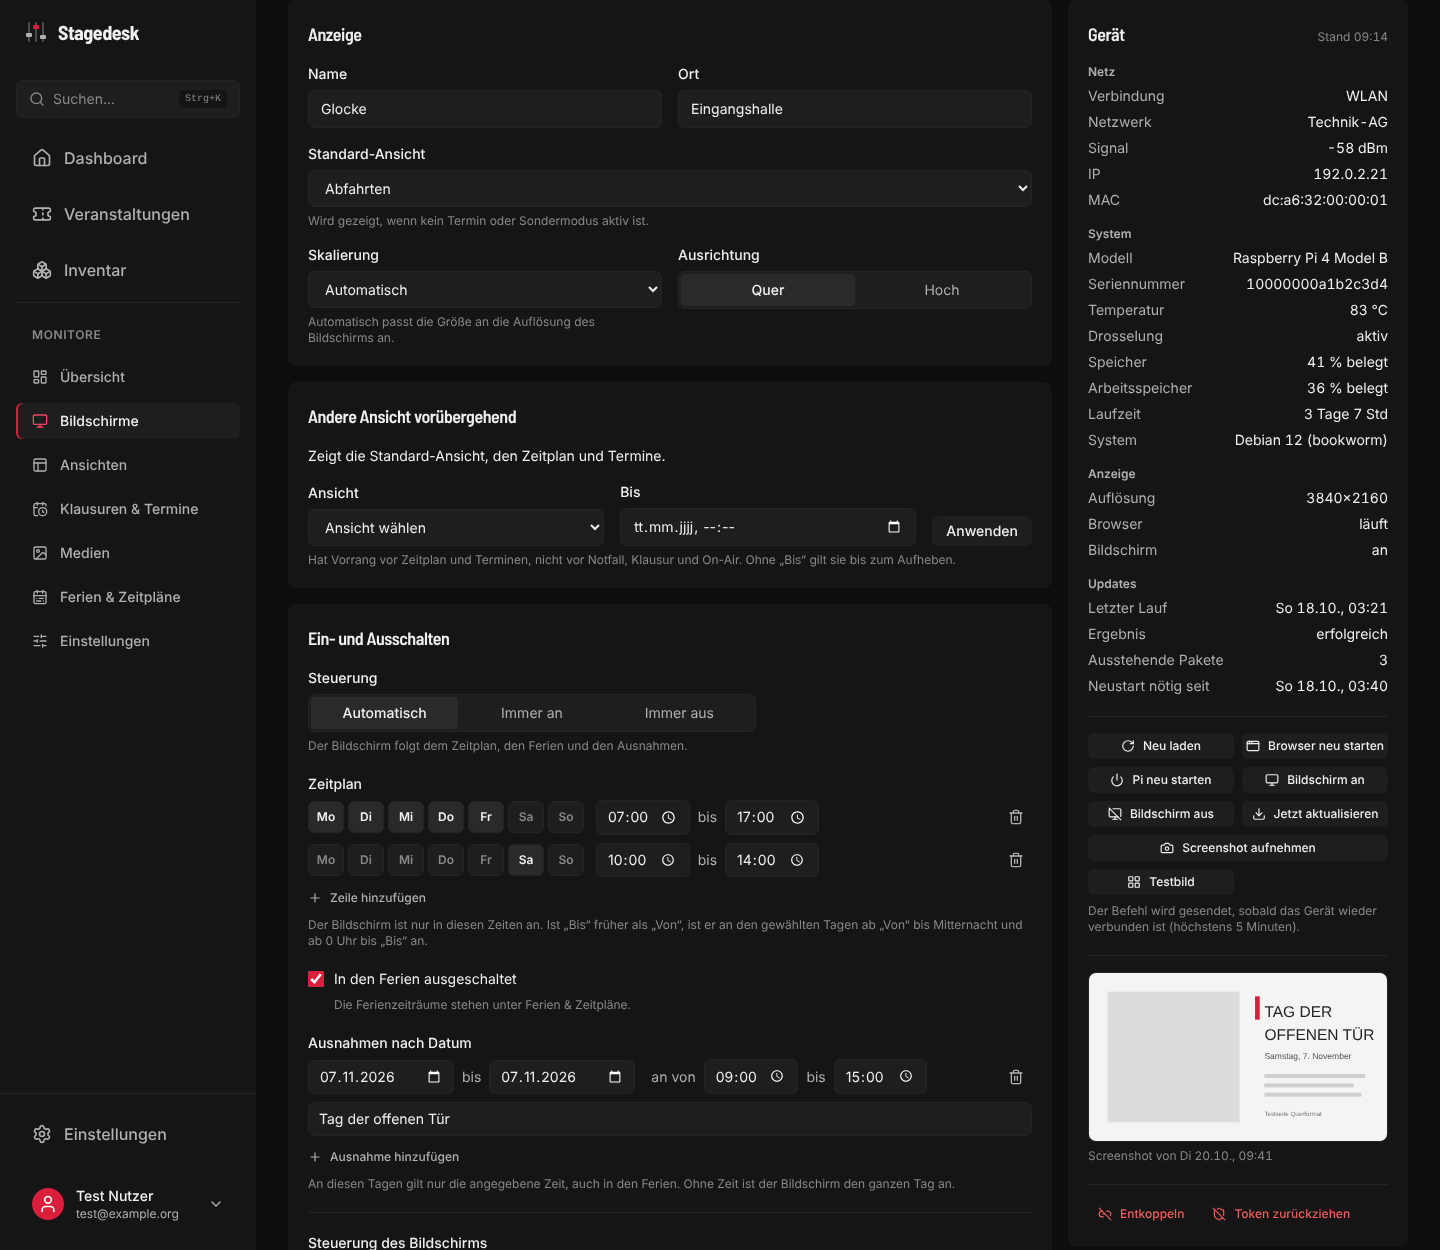
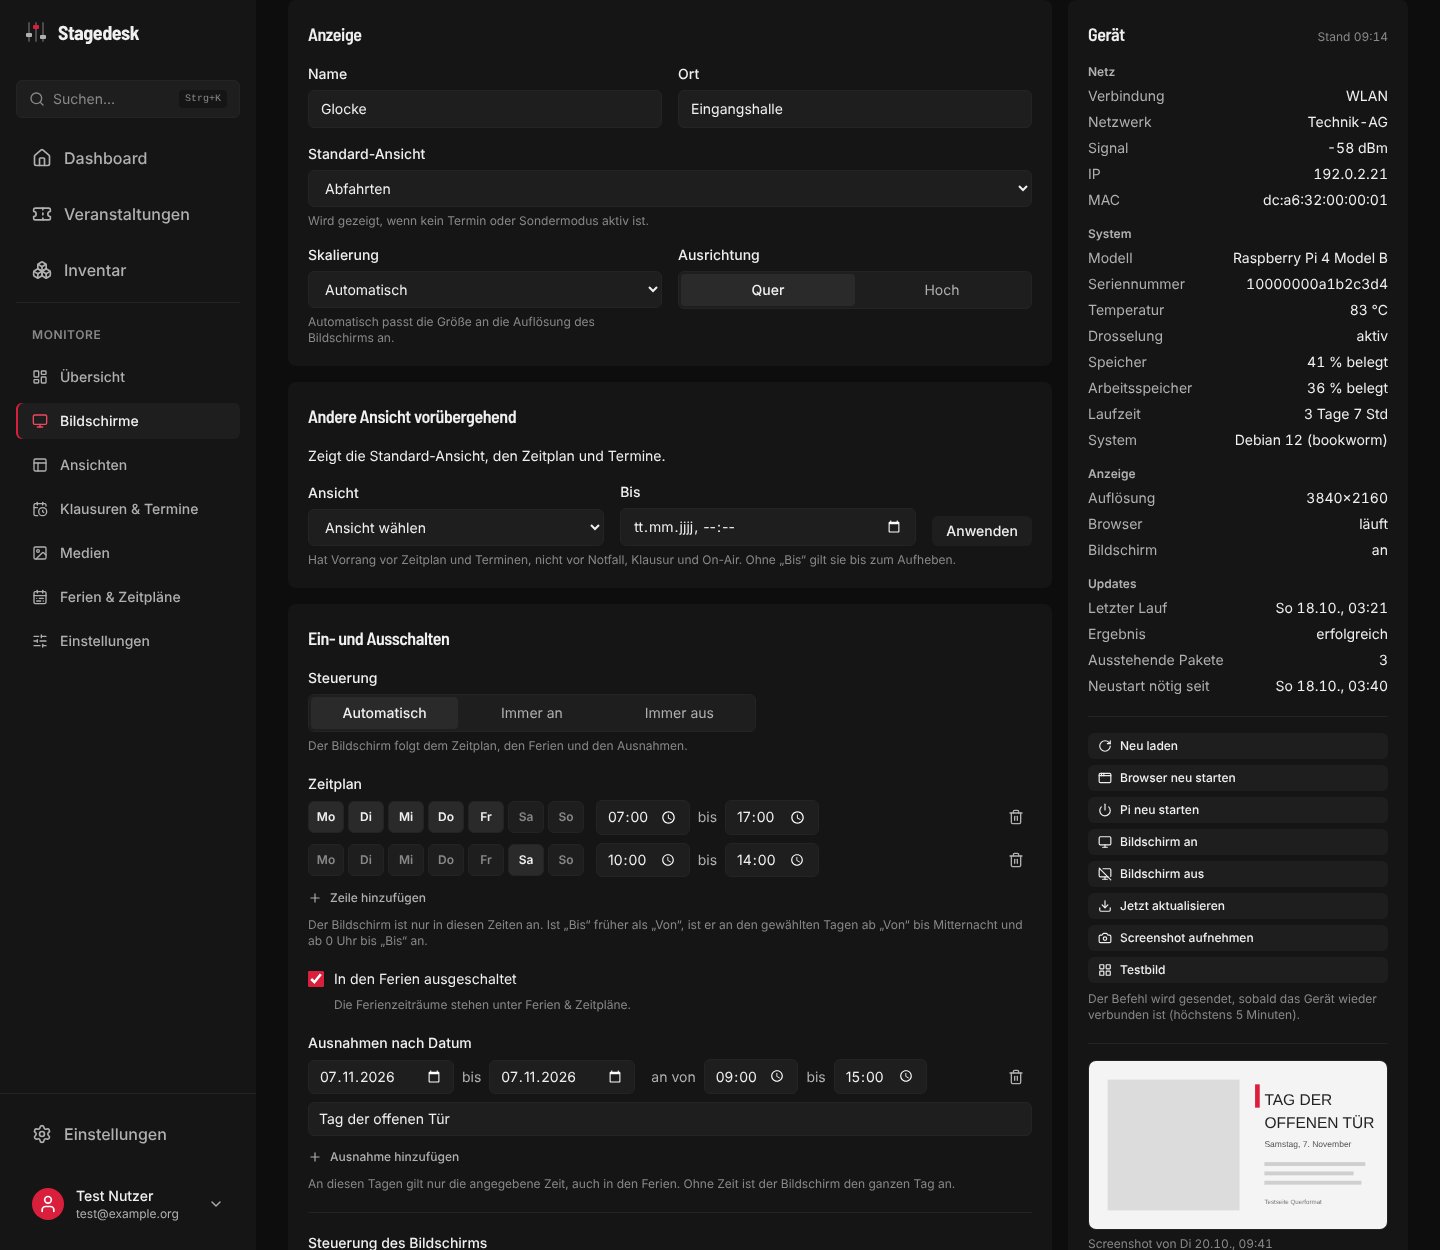
fix(monitor-admin): Geräte-Box, Protokoll und Fixtures nachgeschärft
Claude-Session: https://claude.ai/code/session_01D7nDH9UeEyBKSeRzQw1WpF

Changed region(s): [[0.75, 0.5928, 0.9688, 0.9984]]

diff --git a/frontend/src/components/monitor-admin/shared/DeviceLog.jsx b/frontend/src/components/monitor-admin/shared/DeviceLog.jsx
@@ -34,38 +34,49 @@ async function fetchEvents(screenId, group) {
 export default function DeviceLog({ screenId, reloadKey = 0 }) {
   const filterId = useId()
   const [filter, setFilter] = useState('all')
-  const [state, setState] = useState({ loading: true, events: [], error: null })
+  const [state, setState] = useState({ loading: true, events: [], error: null, filter: 'all' })
 
+  const changeFilter = (value) => {
+    setFilter(value)
+    setState({ loading: true, events: [], error: null, filter: value })
+  }
+
+  // Filterwechsel: Ladeanzeige (changeFilter). Neuladen im Takt (reloadKey): die Tabelle bleibt stehen, ein Fehler erscheint als Zeile.
   useEffect(() => {
     let alive = true
     const group = LOG_GROUPS.find((g) => g.value === filter) ?? LOG_GROUPS[0]
     fetchEvents(screenId, group).then(
-      (events) => { if (alive) setState({ loading: false, events, error: null }) },
-      (error) => { if (alive) setState({ loading: false, events: [], error }) },
+      (events) => { if (alive) setState({ loading: false, events, error: null, filter }) },
+      (error) => { if (alive) setState((s) => (s.events.length ? { ...s, error } : { loading: false, events: [], error, filter })) },
     )
     return () => { alive = false }
   }, [screenId, filter, reloadKey])
+
+  const failure = state.error && (
+    <p role="alert" className="text-sm text-bad mb-3">
+      Das Protokoll konnte nicht geladen werden. {errorText(state.error, 'Bitte die Seite neu laden.')}
+    </p>
+  )
 
   return (
     <Section title="Protokoll" data-section="log"
       aside={(
         <span className="flex items-center gap-2">
           <label htmlFor={filterId} className="text-xs text-fg-subtle">Art</label>
-          <select id={filterId} value={filter} onChange={(e) => setFilter(e.target.value)} className={`${fieldClass} !w-auto py-1`}>
+          <select id={filterId} value={filter} onChange={(e) => changeFilter(e.target.value)} className={`${fieldClass} !w-auto py-1`}>
             {LOG_GROUPS.map((g) => <option key={g.value} value={g.value}>{g.label}</option>)}
           </select>
         </span>
       )}>
-      {state.error ? (
-        <p role="alert" className="text-sm text-bad">
-          Das Protokoll konnte nicht geladen werden. {errorText(state.error, 'Bitte die Seite neu laden.')}
-        </p>
+      {state.error && state.events.length === 0 ? (
+        failure
       ) : state.loading ? (
         <p className="text-sm text-fg-subtle">Lädt…</p>
       ) : state.events.length === 0 ? (
         <p className="text-sm text-fg-muted">Noch keine Einträge.</p>
       ) : (
         <div className="overflow-x-auto">
+          {failure}
           <table className="w-full text-sm">
             <thead>
               <tr className="text-left text-xs text-fg-subtle">

diff --git a/frontend/src/components/monitor-admin/shared/DeviceBox.test.jsx b/frontend/src/components/monitor-admin/shared/DeviceBox.test.jsx
@@ -184,4 +184,36 @@ describe('DeviceBox', () => {
     await click(button('Token zurückziehen', dialog))
     expect(api.revokeDevice).toHaveBeenCalledWith(5)
   })
+
+  it('sofort beendeter Befehl: Toast ohne Nachfragen', async () => {
+    api.sendDeviceCommand.mockResolvedValue({ id: 8, kind: 'reload', status: 'ok', result: '' })
+    await mount()
+    await click(button('Neu laden'))
+    expect(toast.success).toHaveBeenCalledWith('Neu laden ist ausgeführt.')
+    await act(async () => { await vi.advanceTimersByTimeAsync(10000) })
+    expect(api.getDeviceCommand).not.toHaveBeenCalled()
+    expect(button('Neu laden').disabled).toBe(false)
+  })
+
+  it('nach 2 Minuten ohne Ergebnis: Toast mit Hinweis auf das Protokoll, Knopf wieder frei', async () => {
+    api.sendDeviceCommand.mockResolvedValue({ id: 9, kind: 'reload', status: 'pending', result: '' })
+    api.getDeviceCommand.mockResolvedValue({ id: 9, kind: 'reload', status: 'sent', result: '' })
+    await mount()
+    await click(button('Neu laden'))
+    await act(async () => { await vi.advanceTimersByTimeAsync(120000) })
+    expect(toast.error).toHaveBeenCalledWith('Neu laden: noch keine Antwort des Geräts. Der Befehl läuft weiter, das Ergebnis steht im Protokoll.')
+    expect(button('Neu laden').disabled).toBe(false)
+    const calls = api.getDeviceCommand.mock.calls.length
+    await act(async () => { await vi.advanceTimersByTimeAsync(10000) })
+    expect(api.getDeviceCommand.mock.calls.length).toBe(calls)
+  })
+
+  it('ohne monitor.devices: Neu laden nur über onReload, keine Geräte-Befehle', async () => {
+    const onReload = vi.fn()
+    await mount({ can: (p) => p === 'monitor.setup', onReload })
+    expect(button('Pi neu starten')).toBeUndefined()
+    await click(button('Neu laden'))
+    expect(onReload).toHaveBeenCalled()
+    expect(api.sendDeviceCommand).not.toHaveBeenCalled()
+  })
 })

diff --git a/frontend/src/components/monitor-admin/shared/DeviceBox.jsx b/frontend/src/components/monitor-admin/shared/DeviceBox.jsx
@@ -40,7 +40,8 @@ function LargeScreenshot({ url, caption, onClose }) {
   )
 }
 
-export default function DeviceBox({ device, screen, can, onChanged }) {
+// onReload: nur für Nutzer mit monitor.setup ohne monitor.devices (Neu laden wie vor dem Geräte-Agent)
+export default function DeviceBox({ device, screen, can, onChanged, onReload }) {
   const [busy, setBusy] = useState({}) // kind -> true, solange der Befehl läuft
   const [confirm, setConfirm] = useState(null) // { kind, ... } | 'unpair' | 'revoke'
   const [working, setWorking] = useState(false)
@@ -145,10 +146,10 @@ export default function DeviceBox({ device, screen, can, onChanged }) {
 
       {items.length > 0 && (
         <div className="mt-5 pt-4 border-t border-line-subtle" data-device-commands>
-          <div className="grid grid-cols-2 gap-2">
+          <div className="grid gap-1.5">
             {items.map((item) => (
               <Button key={item.kind} size="sm" icon={ICONS[item.kind] ?? MonitorPlay} disabled={!!busy[item.kind]} onClick={() => run(item)}
-                className={item.label.length > 19 ? 'col-span-2' : ''}>
+                className="w-full justify-start">
                 {item.label}
               </Button>
             ))}
@@ -159,6 +160,13 @@ export default function DeviceBox({ device, screen, can, onChanged }) {
               Wartet auf das Gerät: {items.filter((i) => busy[i.kind]).map((i) => i.label).join(', ')}
             </p>
           )}
+        </div>
+      )}
+
+      {items.length === 0 && onReload && (
+        <div className="mt-5 pt-4 border-t border-line-subtle">
+          <Button size="sm" icon={RotateCw} className="w-full justify-start" onClick={onReload}>Neu laden</Button>
+          <p className="text-xs text-fg-subtle mt-1.5">Lädt die Anzeige im Browser des Bildschirms neu.</p>
         </div>
       )}
 

diff --git a/frontend/src/components/monitor-admin/shared/DeviceLog.test.jsx b/frontend/src/components/monitor-admin/shared/DeviceLog.test.jsx
@@ -71,4 +71,30 @@ describe('DeviceLog', () => {
     await mount()
     expect(container.querySelector('[role="alert"]').textContent).toContain('Das Protokoll konnte nicht geladen werden.')
   })
+
+  it('Fehler beim Neuladen: Tabelle bleibt, dazu eine Fehlerzeile', async () => {
+    const view = (key) => createElement(DeviceLog, { screenId: 1, reloadKey: key })
+    container = document.createElement('div')
+    document.body.appendChild(container)
+    root = createRoot(container)
+    await act(async () => { root.render(view(0)) })
+    api.getScreenEvents.mockImplementation(() => Promise.reject(Object.assign(new Error('x'), { response: { status: 503, data: {} } })))
+    await act(async () => { root.render(view(1)) })
+    expect(container.querySelectorAll('tbody tr')).toHaveLength(3)
+    expect(container.querySelector('[role="alert"]').textContent).toContain('Das Protokoll konnte nicht geladen werden.')
+  })
+
+  it('Filterwechsel zeigt die Ladeanzeige statt der alten Zeilen', async () => {
+    await mount()
+    let resolve
+    api.getScreenEvents.mockImplementation(() => new Promise((r) => { resolve = r }))
+    await act(async () => {
+      select().value = 'commands'
+      select().dispatchEvent(new Event('change', { bubbles: true }))
+    })
+    expect(container.querySelector('table')).toBeNull()
+    expect(container.textContent).toContain('Lädt')
+    await act(async () => { resolve([EVENTS[0]]) })
+    expect(container.querySelectorAll('tbody tr')).toHaveLength(1)
+  })
 })

diff --git a/frontend/src/components/monitor-admin/pages/ScreenDetail.test.jsx b/frontend/src/components/monitor-admin/pages/ScreenDetail.test.jsx
@@ -313,6 +313,18 @@ describe('ScreenDetail', () => {
       expect(box.textContent).not.toContain('Kein Gerät gekoppelt')
     })
 
+    it('mit monitor.setup ohne monitor.devices bleibt Neu laden über reloadScreen, sonst keine Befehle', async () => {
+      perms.add('monitor.setup')
+      api.getDevices.mockImplementation(() => Promise.resolve([pairedDevice()]))
+      api.reloadScreen.mockResolvedValue({ success: true })
+      await mount()
+      expect(button('Pi neu starten')).toBeUndefined()
+      expect(button('Entkoppeln')).toBeUndefined()
+      await click(button('Neu laden'))
+      expect(api.reloadScreen).toHaveBeenCalledWith(1)
+      expect(api.sendDeviceCommand).not.toHaveBeenCalled()
+    })
+
     it('altes Skript: CEC-Stand und Hinweis', async () => {
       perms.add('monitor.setup')
       api.getDevices.mockImplementation(() => Promise.resolve([{ id: null, screen_id: 1, status: 'legacy', legacy: true, warnings: [], telemetry: {} }]))

diff --git a/frontend/src/components/monitor-admin/pages/ScreenDetail.jsx b/frontend/src/components/monitor-admin/pages/ScreenDetail.jsx
@@ -570,7 +570,7 @@ export default function ScreenDetail() {
               {canDevices && <DeviceLog screenId={screenId} reloadKey={logKey} />}
             </div>
             {isPaired(device)
-              ? <DeviceBox device={device} screen={screen} can={hasPermission} onChanged={reloadDevices} />
+              ? <DeviceBox device={device} screen={screen} can={hasPermission} onChanged={reloadDevices} onReload={canSetup && !canDevices ? reload : null} />
               : <DeviceSection screen={screen} device={device} devicesError={devicesError} now={now} onReload={canSetup ? reload : null} />}
           </div>
           <SaveBar count={dirtyCount} onSave={saveAll} onDiscard={discard} saving={display.saving || power.saving || deviceDraft.saving} />
